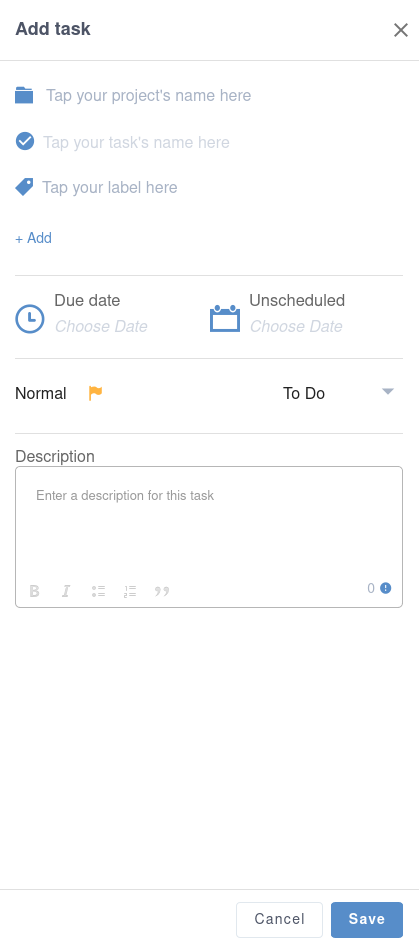
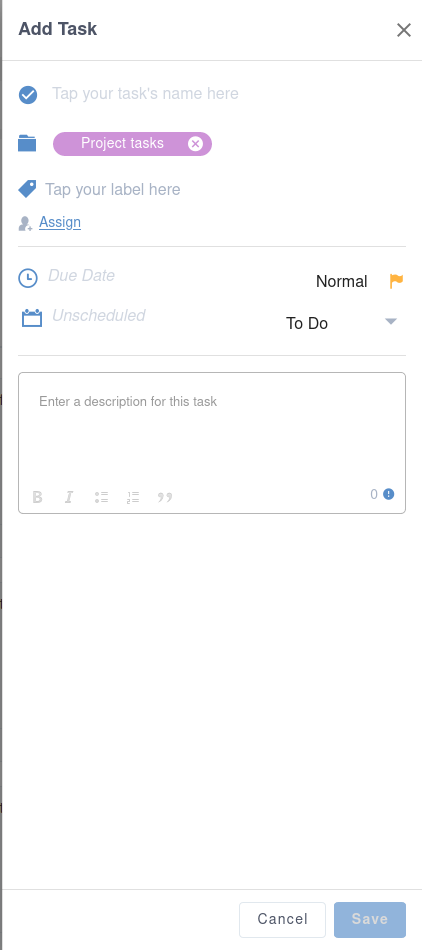
Reorganize sections and add doc for filters and d&d

diff --git a/docs/ManageTasks.rst b/docs/ManageTasks.rst
@@ -38,16 +38,15 @@ New Tasks Application
           features which exist in the tasks app.
 
 With eXo Platform 6.1, Tasks application has been made a new skin for more confortable and user-friendly usage.
-Discover what's new in Tasks application through the following sections:
+Discover what's new in Tasks application in the following sections.
 
-:ref:`My tasks <MyTasks>`
-
-:ref:`My projects <Myprojects>`
 
 .. _MyTasks:
 
 My Tasks
 ~~~~~~~~~
+
+TASKS tab is where you can find the tasks assigned to you and tasks where you are set as coworker.
 
 The list of my tasks could be displayed in two views: List or Cards.
 
@@ -57,7 +56,7 @@ The LIST view displays in a list form the tasks I created either in a project or
 
 |NewTask01|
 
-CARDS view of my tasks displays the same task in a different view. Each task is represented by a card.
+CARDS view of my tasks displays the same tasks in a different view. Each task is represented by a card.
 
 Both views, i.e. list and cards display the same details: 
 
@@ -75,68 +74,14 @@ When a task has many coworkers, you just need to click on the +x label over the 
 |NewTask05|
 
 
-.. _AddNewPersonalTask:
-
-How to add a new task?
-^^^^^^^^^^^^^^^^^^^^^^^
-
-You can add a task in your Tasks list. For that you just need to click on "Add Task" button |NewTask07| on the top left of the page.
-A drawer opens allowing you to fill in the tasks' fields. 
-
-|NewTask08|
-
-.. note:: In TASKS tab, when you add a new task, it is by default assigned to you. You can, for sure, change the assignement.
-
-.. tip:: The title field is mandatory to enable tasks's creation.
-
-
-
-.. _SearchTask:
-
-How to search for a task?
-^^^^^^^^^^^^^^^^^^^^^^^^^^
-
-To search for a task you can either use the filter field allowing to search a task through a keyword or use the filter drawer which allows to make 
-an advanced search with multiple criteria. It also allows to group and sort tasks.
-
-To use the first alternative, you just need to type a keyword in the field. The returned results correspond to tasks containing the keyword in the 
-title or the description.
-
-|NewTask06|
-
-The second alternative consists on setting some choices to make a custom search based on precised criteria in the filter drawer.
-
-|NewTask12|
-
-- Contains: When setting a keyword in that field, the filter will search for tasks containing that word in its title or description.
-- Assignee: Allows to select a user and then to filter tasks assigned to him
-- Due: A dropdown menu allowing to filter tasks in accordance to their due date: Overdue, Today, Tomorrow, Upcoming. Default set to All to list all tasks
-- Priority: A dropdown menu allowing to filter tasks by a selected priority: High, Normal, Low, None. Default set to All to display the whole tasks list.
-- Show completed tasks: a radio button allowing to display or not the :ref:`finished tasks <finishtask>`, default set to No, i.e. completed tasks are not displayed.
-
-In the drawer's footer, the buttons/link make the following:
-
-- Confirm: Allows to confirm the selected/inputted date and proceed to the filtering
-- Cancel: Allows to clear the selected/inputted data and close the drawer
-- Reset link: Allows to clear all the selected/inputted data
-
-.. finishtask:
-
-Mark a task as completed
-^^^^^^^^^^^^^^^^^^^^^^^^^
-When you are done on a task and that you want to mark it as completed, you need simply to click on the radio button near the task's title.
-
-|NewTask13|
-
-|NewTask14|
-
-
 .. _Myprojects:
 
 My projects
 ~~~~~~~~~~~~~~
 
-Projects are now displayed in CARDS form.
+PROJECTS tab is where you can find your projects i.e. those you are the manger and those you are participant in.
+
+With the new tasks application, projects are represented in CARDS forms.
 
 A project's CARD displays the following details:
 
@@ -172,31 +117,143 @@ A project is defined by these properties:
 - At least one participant, which could be a user or a group
 - A description which is not mandatory
 
-
-.._SearchProject:
+.. _SearchProject:
 
 How to search for a project?
 ~~~~~~~~~~~~~~~~~~~~~~~~~~~~~~
 
-Same as for tasks, you can search for a project throught the filter field using a keyword.
-Results contains projects having the keyword in their titles or description.
+You can search for a project throught the filter field using a keyword. Results will contain projects having the keyword in their titles or description.
 
-.._AccessProjectTasks:
+
+.. _AccessProjectTasks:
 
 How to access a project's tasks?
 ~~~~~~~~~~~~~~~~~~~~~~~~~~~~~~~~~
 
-To access the list of a project's tasks, you just need to click on the description on the project's CARD. You can choose between the two views BOARD or LIST.
-By default, project's Tasks are displayed on the BOARD view.
+To access the list of a project's tasks, you just need to click on it's title on the CARD. You can choose between the two views BOARD or LIST.
+By default, project's tasks are displayed on the BOARD view.
 
 
 |NewTask09|
+
+
+.. _AddTask:
+
+How to add a new task?
+~~~~~~~~~~~~~~~~~~~~~~~~
+
+You can add a task either in your Tasks list i.e. under TASKS tab or under a project in which you are at least participant. 
+For that you just need to click on "Add Task" button |NewTask07| on the top left of the page.
+A drawer opens allowing you to fill in the tasks' fields. 
+
+|NewTask08|
+
+.. tip:: The title field is mandatory to enable tasks's creation.
+
+.. note:: The differences between a task added under TASKS tab and under a project:
+          
+          -  In TASKS tab, only the assignee filed is pre-filled, and by default assigned to you.
+          
+          -  Under a project, only the project field is pre-filled, by default set to the project under which you are adding a new task.
+
 
 You can edit a task by clicking on its title which opens the "Edit task" drawer.
 
 |NewTask10|
 
+.. _SearchTask:
 
+How to search for a task?
+~~~~~~~~~~~~~~~~~~~~~~~~~~~
+
+Searching for a task is made the same in both tabs: TASKS and under a project.
+
+To search for a task you can either use the filter field allowing to search a task through a keyword or use the filter drawer which allows to make 
+an advanced search with multiple criteria. It also allows to group and sort tasks.
+
+.. _SearchTaskFilterField:
+
+Search for a task using the Filter field
+^^^^^^^^^^^^^^^^^^^^^^^^^^^^^^^^^^^^^^^^^^^
+
+To use the first alternative .i.e. the filter field, you just need to type a keyword in the field. The returned results correspond to tasks containing the keyword in the 
+title or the description.
+
+|NewTask06|
+
+
+.. _SearchTaskFilterBtn:
+
+Search for a task using the Filter button
+^^^^^^^^^^^^^^^^^^^^^^^^^^^^^^^^^^^^^^^^^^^
+
+The filter button allows you to make an advanced search and/or sort by setting the desired choices in 3 differents tabs.
+
+Group and Sort tab
+````````````````````
+The group and sort tab allows you to group and/or sort tasks according to the selected choices.
+
+|NewTask15|
+
+The "Group by" options organizes the tasks and groups them by a common criteria: Those belonging to the same project together, 
+those having the same due date (overdue, incoming...) together, etc...
+
+The "Sort by" options allows to sort tasks in an order according to a criteria. For example when sorting by priority, tasks with the highest priority appear first.
+
+.. note:: Note that some critera in the "Group and Sort" tab differs between project's tasks and TASKS. FOr example, grouping project's tasks by project does not have sens
+          as all the tasks belong to the same project.
+
+Filter tab
+```````````
+
+The tab "Filter" allows you to make a custom search based on the precised criteria.
+
+
+|NewTask12|
+
+- Contains: When setting a keyword in that field, the filter will search for tasks containing that word in its title or description i.e. it does the same thing as 
+  the filter field when it is the only filled criteria.
+- Assignee: Allows to select a user and then to filter tasks assigned to him.
+- Due: A dropdown menu allowing to filter tasks in accordance to their due date: Overdue, Today, Tomorrow, Upcoming. Default set to All to list all tasks.
+- Priority: A dropdown menu allowing to filter tasks by a selected priority: High, Normal, Low, None. Default set to All to display the whole tasks list.
+- Show completed tasks: a radio button allowing to display or not the :ref:`finished tasks <finishtask>`, default set to No, i.e. completed tasks are not displayed.
+
+In the drawer's footer, the buttons/link make the following:
+
+- Confirm: Allows to confirm the selected/inputted data and proceed to the filtering
+- Cancel: Allows to clear the selected/inputted data and close the drawer
+- Reset link: Allows to clear all the selected/inputted data
+
+Labels tab
+````````````
+
+The "Labels" tab allows you to search for tasks labelled with the inputted one.
+
+|NewTask16|
+
+.. tip:: When inputting more than one label, search results will contain tasks labelled by all of the selected ones.
+
+.. _finishtask:
+
+Mark a task as completed
+~~~~~~~~~~~~~~~~~~~~~~~~~~
+
+
+When you are done on a task and that you want to mark it as completed, you need simply to click on the radio button near the task's title.
+
+|NewTask13|
+
+|NewTask14|
+
+.. _ChangeStatus:
+
+How to change a task's status?
+~~~~~~~~~~~~~~~~~~~~~~~~~~~~~~~~
+
+When you want to change a task's from a column (status) to another, you can do it through two manners:
+
+-  Edit the taks and change its status to the desired one
+-  Drag the task from its first column and the drop it to the desired one. The drag&drop is feasible in both views BOARD and LIST.
 
 .. _Intoduction:
 
@@ -1243,3 +1300,5 @@ it on your own.
 .. |NewTask12| image:: images/NewTask/FilterTabDrawer.png
 .. |NewTask13| image:: images/NewTask/FinishTaskCARD.png
 .. |NewTask14| image:: images/NewTask/FinishTaskList.png
+.. |NewTask15| image:: images/NewTask/GroupSort.png
+.. |NewTask16| image:: images/NewTask/LabelsTab.png
